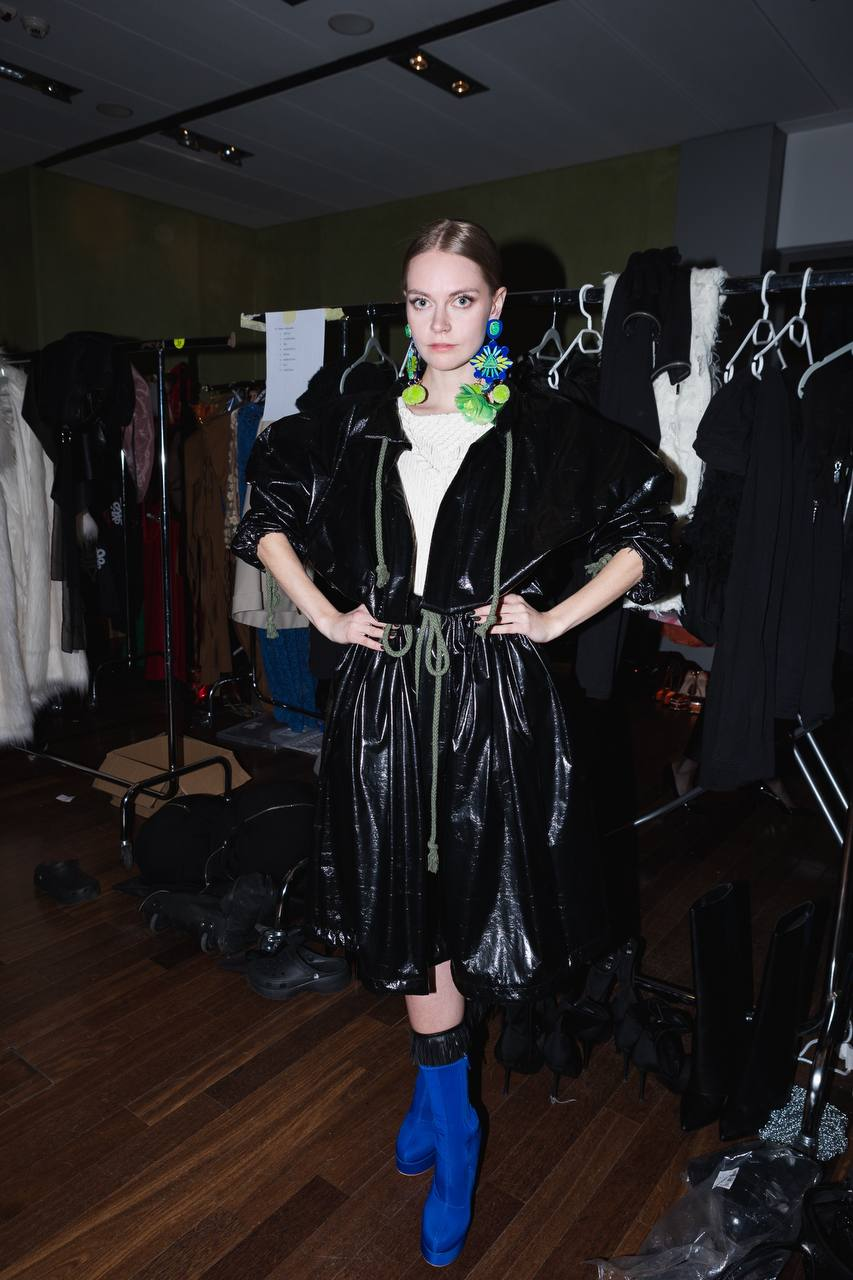
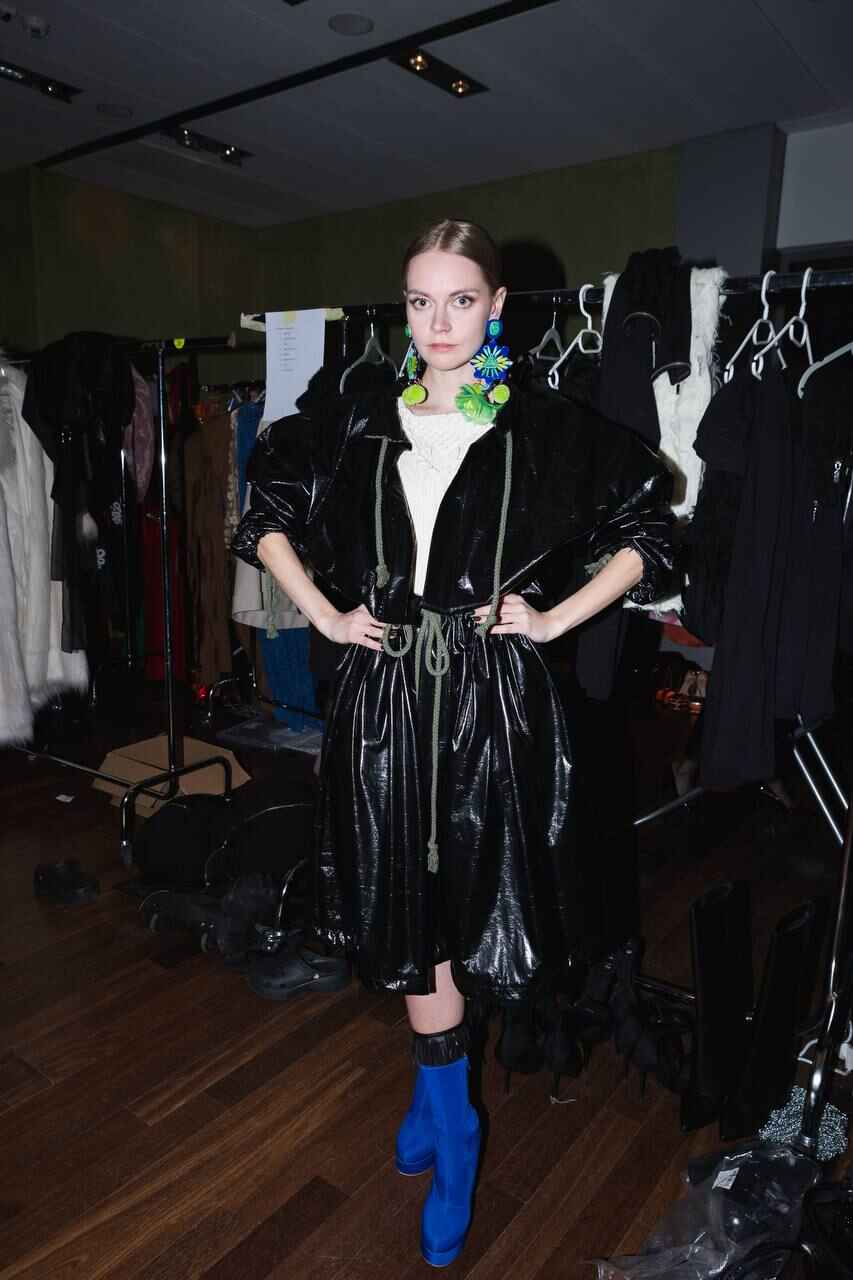
fix: work  images compressed

diff --git a/works.html b/works.html
@@ -59,7 +59,7 @@
         </div>
         <div class="wdescript">
             <h2>SILLESIA store</h2>
-            <p>Hand made lingerie brand established in Krakow in 2023. All sets are made individually for every client with love and of best textile.  </p>
+            <p>Hand made lingerie brand established in Krakow in 2023. All sets are made individually for every client with love and of high quality textile.  </p>
             <a href="https://www.instagram.com/p/C6dOtqRCL-e/" id="contact-me">Instagram</a>
         </div>
     </div>
@@ -89,5 +89,7 @@
         </div>
     </div>
 
+
+    <script src="script.js"></script>
 </body>
 </html>
